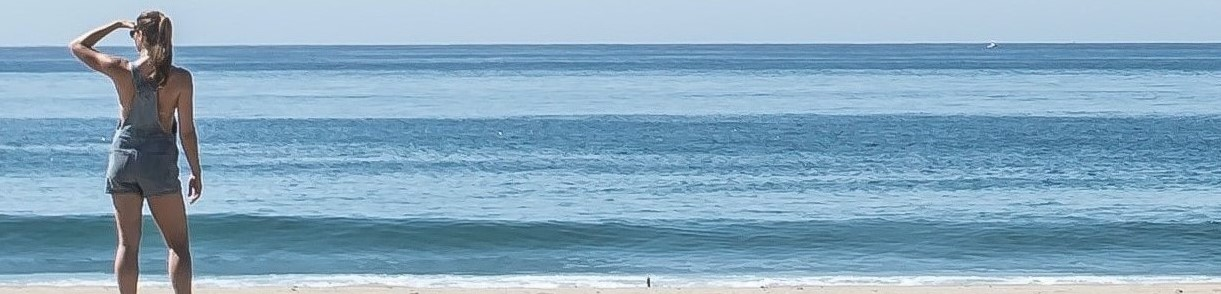
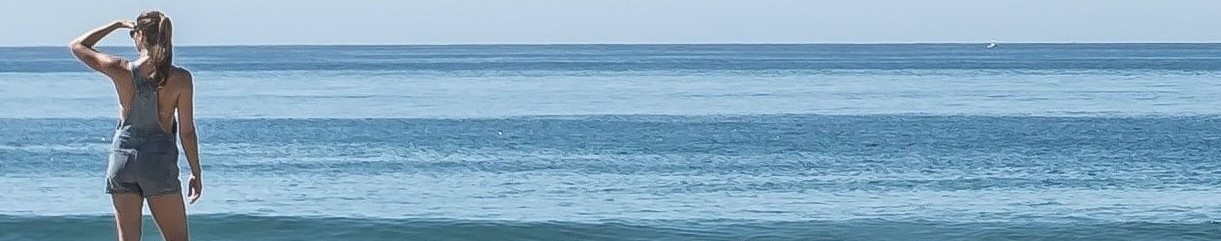
Adaptacion del menu

diff --git a/index.html b/index.html
@@ -19,7 +19,7 @@
     <link rel="icon" href="https://avatars3.githubusercontent.com/u/6732307?v=4" type="image/png" class="rounded-circle">
   </head>
   <body>
-    <div class="pos-f-t">
+    <div class="pos-f-t fixed-top">
       <div class="navbar navbar-dark bg-dark fixed-top">
         <span class="text-left text-secondary eliminar col-1" onclick="changeNav()">
           &#9776;</span>
@@ -35,23 +35,23 @@
       </div>
     </div>
     <br>
-    <div id="index" class="container navbar-block b-white b-hide b-hide-large b-hide-medium">
+    <div id="index" class="navbar-block b-white b-hide b-hide-large b-hide-medium">
       <h3 class="text-centrado backgroundInicio text-secondary">Inicio</h3>
-      <span class="text-center">
+      <span class="text-center container">
         asdasd<br>asd asd<br>asd<br>asd<br>asd<br>asd<br>asd<br>asd<br>asd<br>asd<br>asd<br>
       </span>
     </div>
     <br>
-    <div id="home" class="container navbar-block b-white b-hide b-hide-large b-hide-medium">
+    <div id="home" class="navbar-block b-white b-hide b-hide-large b-hide-medium">
       <h4 class="text-center">Home</h4>
-      <span class="text-center">
+      <span class="text-center container">
         <br>asd<br>asd<br>asd<br>asd<br>asd<br>asd<br>asd<br>asd<br>asd<br>asd<br>asd<br>
       </span>
     </div>
     <br>
-    <div id="info" class="container navbar-block b-white b-hide b-hide-large b-hide-medium">
+    <div id="info" class="navbar-block b-white b-hide b-hide-large b-hide-medium">
       <h4 class="text-center">Información</h4>
-      <span class="text-center">
+      <span class="text-center container">
         <br>asd<br>asd<br>asd<br>asd<br>asd<br>asd<br>asd<br>asd<br>asd<br>asd<br>asd<br>
       </span>
     </div>

diff --git a/index.css b/index.css
@@ -82,7 +82,7 @@
 }
 
 .backgroundInicio {
-	height: 294px;
+	height: 241px;
 	background-repeat: no-repeat;
 	background: linear-gradient(to right, rgba(255,255,255,0), rgba(255,255,255,1)), url("./assets/backgroundInicio.jpg");
 	box-shadow: 10px 10px 5px grey;
